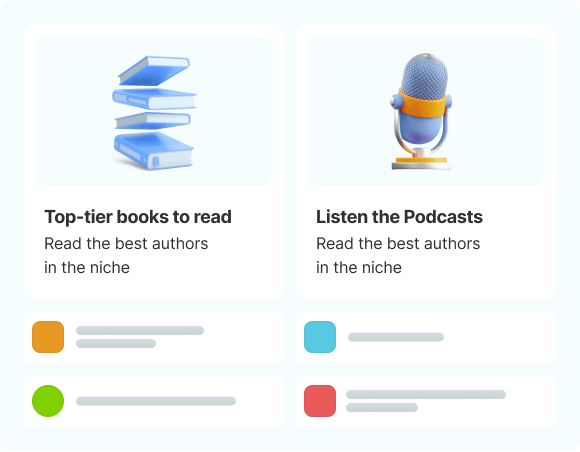
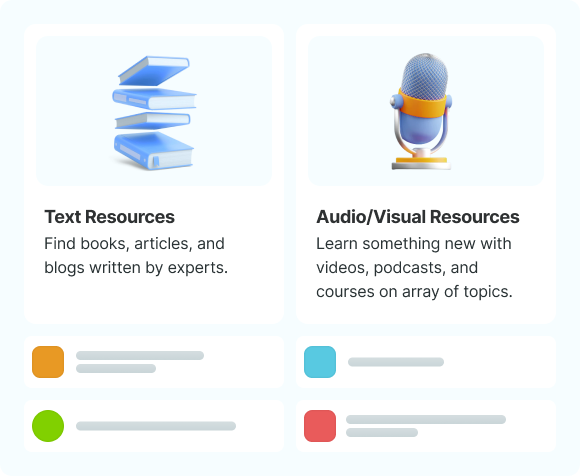
feat: updates to landing copies

diff --git a/packages/landing-site/src/components/resources-info-banner.tsx b/packages/landing-site/src/components/resources-info-banner.tsx
@@ -4,16 +4,16 @@ import { sprinkles } from "@framework/system/src/sprinkles/sprinkles.css"
 export default function ResourcesInfoBanner() {
 	const cardResources = [
 		{
-			title: "React Resources",
-			href: "https://react.framework.dev/",
-			icon: "/icon-react.svg",
-			backgroundColor: "#00BCDA",
-		},
-		{
 			title: "Angular Resources",
 			href: "https://angular.framework.dev/",
 			icon: "/icon-angular.svg",
 			backgroundColor: "#C3002F",
+		},
+		{
+			title: "React Resources",
+			href: "https://react.framework.dev/",
+			icon: "/icon-react.svg",
+			backgroundColor: "#00BCDA",
 		},
 		{
 			title: "Vue Resources",
@@ -25,8 +25,8 @@ export default function ResourcesInfoBanner() {
 
 	return (
 		<_ResourcesInfoBanner
-			title="Get started now"
-			description="Explore some of the top resources added by a community to learn or be up to date with your framework"
+			title="Get Started"
+			description="Select one of the frameworks below to begin exploring framework.dev!"
 			cardResources={cardResources}
 			className={sprinkles({
 				marginTop: { mobile: 56, desktop: 152 }

diff --git a/packages/landing-site/src/components/pitch-cards.tsx b/packages/landing-site/src/components/pitch-cards.tsx
@@ -13,26 +13,26 @@ export default function PitchCards() {
 		>
 			<PitchCard
 				pitchText={{
-					highlightedText: "Diferent channels",
-					softText: "Browse books, podcasts, libraries, curses and more",
-				}}
-				imageUrl="/pitch-image-1.png"
-			/>
-
-			<PitchCard
-				pitchText={{
 					highlightedText: "Search",
-					softText: "for the resources you are interested in",
+					softText: "for libraries and resources based on your interests.",
 				}}
 				imageUrl="/pitch-image-2.png"
 			/>
 
 			<PitchCard
 				pitchText={{
-					highlightedText: "Compare libraries",
-					softText: "you're considering using key data points",
+					highlightedText: "Compare",
+					softText: "libraries using key data points to understand what's best for your use case.",
 				}}
 				imageUrl="/pitch-image-3.png"
+			/>
+
+			<PitchCard
+				pitchText={{
+					highlightedText: "Discover",
+					softText: "books, podcasts, libraries, courses and more by exploring the collection of resources!",
+				}}
+				imageUrl="/pitch-image-1.png"
 			/>
 		</div>
 	)

diff --git a/packages/landing-site/src/components/hero.tsx b/packages/landing-site/src/components/hero.tsx
@@ -4,24 +4,23 @@ export default function Hero() {
 	return (
 		<_Hero
 			heroText={{
-				highlightedTitle: "List of the top resources",
-				softTitle: "to learn the code",
+				highlightedTitle: "Welcome to framework.dev",
 				subtitle:
-					"Explore some of the top resources added by a community to learn or be up to date with your framework.",
+					"Search for top web technologies, compare key features, and discover community-curated resources to help you learn!",
 			}}
 			linkCards={[
-				{
-					title: "React Resources",
-					href: "https://react.framework.dev/",
-					icon: "/icon-react.svg",
-					backgroundColor: "#00BCDA",
-					bigSize: true,
-				},
 				{
 					title: "Angular Resources",
 					href: "https://angular.framework.dev/",
 					icon: "/icon-angular.svg",
 					backgroundColor: "#C3002F",
+					bigSize: true,
+				},
+				{
+					title: "React Resources",
+					href: "https://react.framework.dev/",
+					icon: "/icon-react.svg",
+					backgroundColor: "#00BCDA",
 					bigSize: true,
 				},
 				{

diff --git a/packages/system/src/components/landing/footer.tsx b/packages/system/src/components/landing/footer.tsx
@@ -17,7 +17,7 @@ export function Footer({ children, className, ...props }: FooterProps) {
 				<GithubIcon size="large" />
 				Submit a PR
 			</a>
-			<p className={footerTextStyle}>© 2022 This Dot, Itc.</p>
+			<p className={footerTextStyle}>© 2022 This Dot, Inc.</p>
 		</footer>
 	)
 }
